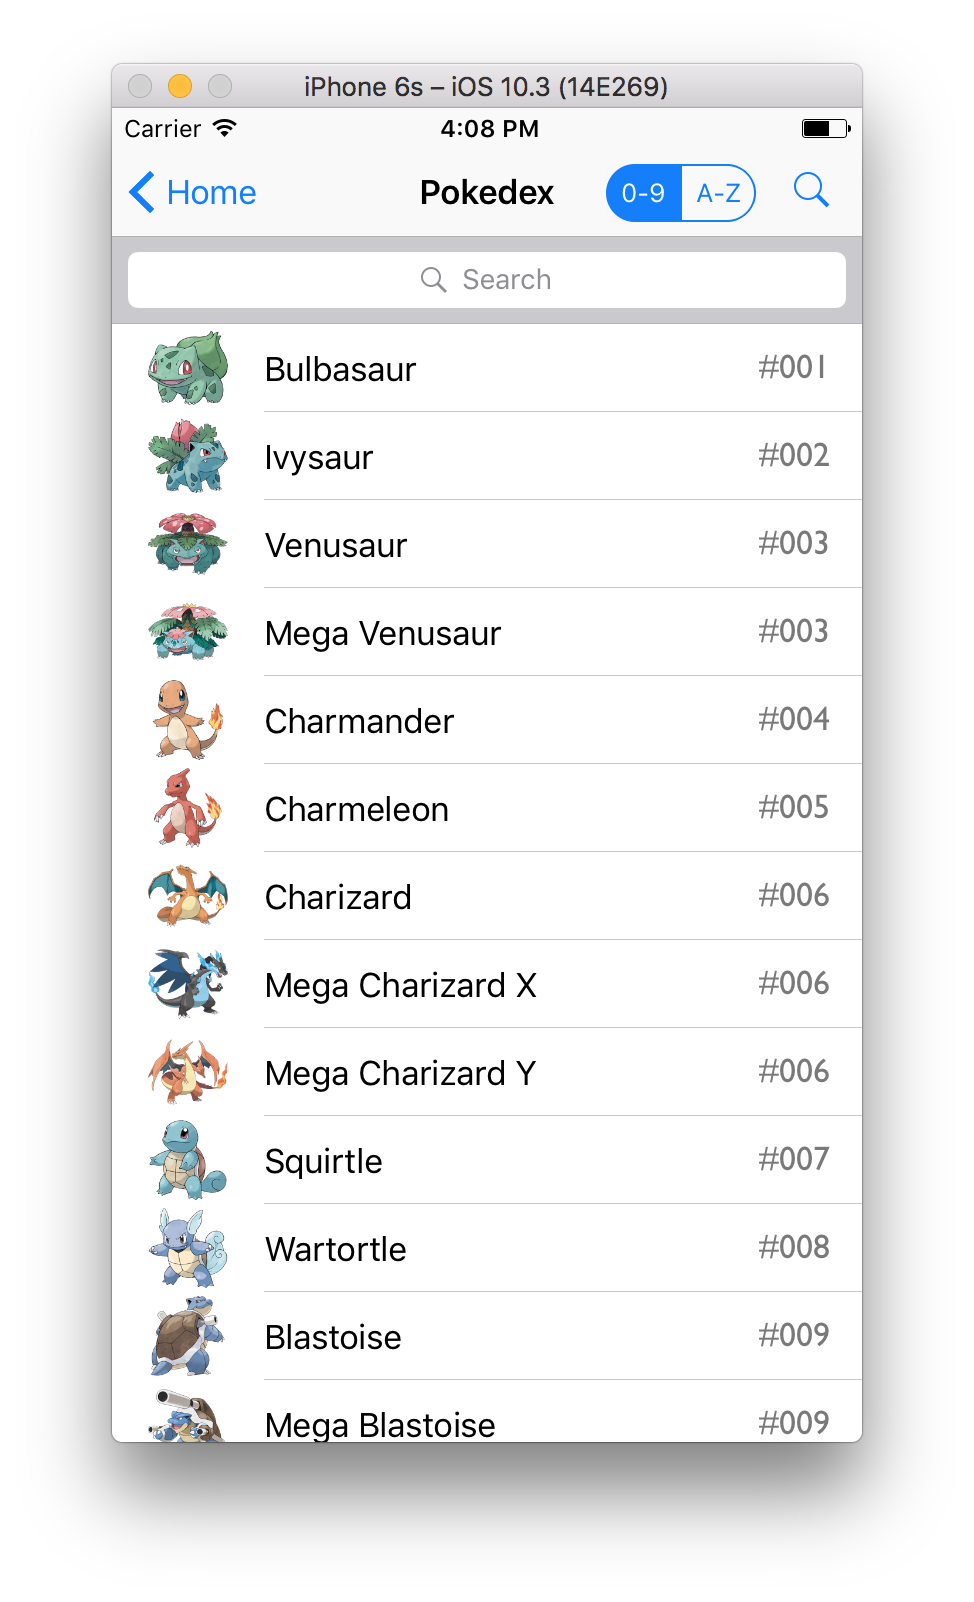
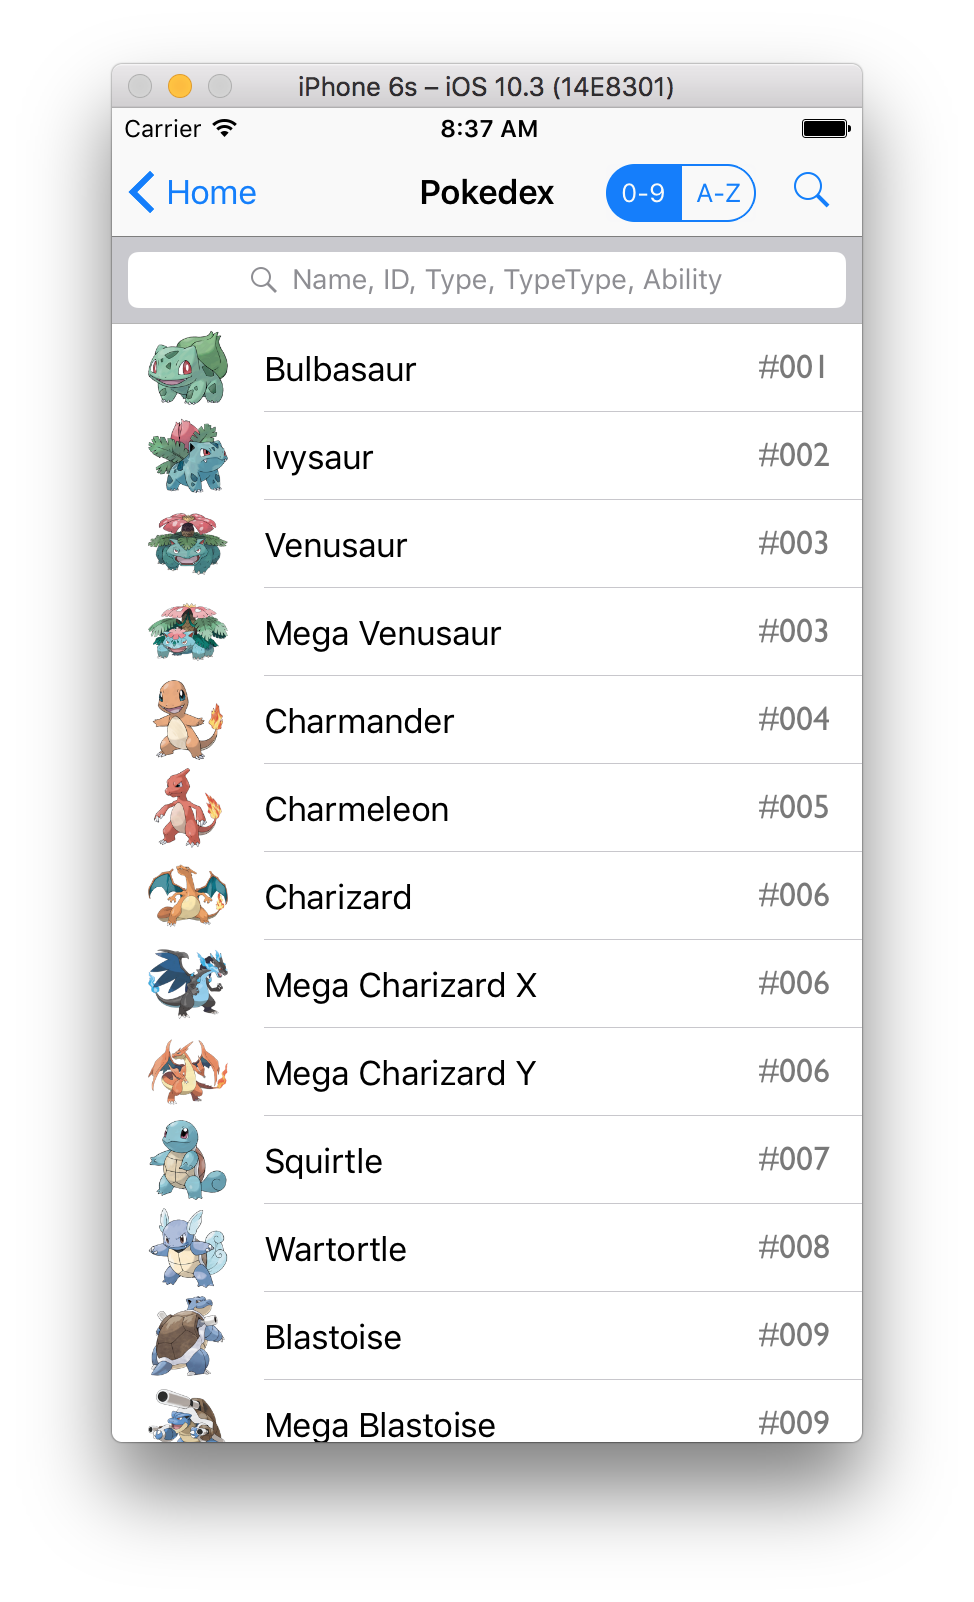
adjusted some if let to guard let; updated preview assets

diff --git a/PokedexApp/PokemonInfoVC.swift b/PokedexApp/PokemonInfoVC.swift
@@ -288,22 +288,19 @@ class PokemonInfoVC: UIViewController, TypeUILabelDelegate {
         switch senderView {
             
         case pokeEvolution01Img:
-            if pokemon.name != evolutions[base].name {
-                pokemon = evolutions[base]
-                shouldUpdateUI = true
-            }
+            guard pokemon.name != evolutions[base].name else { return }
+            pokemon = evolutions[base]
+            shouldUpdateUI = true
             
         case pokeEvolution02Img:
-            if pokemon.name != evolutions[mid].name {
-                pokemon = evolutions[mid]
-                shouldUpdateUI = true
-            }
+            guard pokemon.name != evolutions[mid].name else { return }
+            pokemon = evolutions[mid]
+            shouldUpdateUI = true
             
         case pokeEvolution03Img:
-            if pokemon.name != evolutions[last].name {
-                pokemon = evolutions[last]
-                shouldUpdateUI = true
-            }
+            guard pokemon.name != evolutions[last].name else { return }
+            pokemon = evolutions[last]
+            shouldUpdateUI = true
             
         default: ()
         }
@@ -323,33 +320,18 @@ class PokemonInfoVC: UIViewController, TypeUILabelDelegate {
             
         case measurementSectionLbl:
             if sender.state == .began {
-                measurementSectionLbl.isUserInteractionEnabled = false
+                //measurementSectionLbl.isUserInteractionEnabled = false
                 measurementSectionLbl.layer.borderColor = UIColor.AppObject.sectionText.cgColor
             
             } else if sender.state == .ended {
                 audioPlayer.play(audio: .select)
-                self.measurementSectionLbl.layer.borderColor = UIColor.clear.cgColor
+                measurementSectionLbl.layer.borderColor = UIColor.clear.cgColor
                 
-                let originalOriginY = pokeHeightLbl.frame.origin.y
-                let animateToOriginY = measurementSectionLbl.frame.origin.y
-                let animatedDuration: TimeInterval = 0.25
-                
-                UIView.animate(withDuration: animatedDuration, animations: {
-                    self.pokeHeightLbl.frame.origin.y = animateToOriginY
-                    self.pokeHeightLbl.alpha = 0
-                    self.pokeWeighLblt.frame.origin.y = animateToOriginY
-                    self.pokeWeighLblt.alpha = 0
-                }) { (Bool) in
-                    self.toggleMeasurement()
-                    UIView.animate(withDuration: animatedDuration, animations: {
-                        self.pokeHeightLbl.frame.origin.y = originalOriginY
-                        self.pokeHeightLbl.alpha = 1
-                        self.pokeWeighLblt.frame.origin.y = originalOriginY
-                        self.pokeWeighLblt.alpha = 1
-                    }) { (Bool) in
-                        self.measurementSectionLbl.isUserInteractionEnabled = true
-                    }
-                }
+                let toYValue = measurementSectionLbl.center.y
+                pokeHeightLbl.animateUp(toYValue: toYValue, duration: 0.05, reverse: true)
+                pokeWeighLblt.animateUp(toYValue: toYValue, duration: 0.05, reverse: true)
+            
+                self.toggleMeasurement()
             }
             
         case weaknessesSectionLbl:
@@ -398,17 +380,13 @@ extension PokemonInfoVC {
     func configureViewLauncher() {
         
         if pokemonWeaknessViewLauncher == nil, pokedexEntryViewLauncher == nil {
-            let y = Constant.Constrain.frameUnderNavController.origin.y
-            let width = self.view.frame.width
-            let height = self.view.frame.height - y
-            let frame = CGRect(x: 0, y: y, width: width, height: height)
+            let viewLauncherFrame = Constant.Constrain.viewlauncherFrameUnderNavBar
             
             // Configure pokemon weakness and pokedex entry viewlauncher
-            pokemonWeaknessViewLauncher = ViewLauncher(frame: frame)
-            pokemonWeaknessViewLauncher.launchView.backgroundColor = UIColor(white: 0, alpha: 0.3)
+            pokemonWeaknessViewLauncher = ViewLauncher(frame: viewLauncherFrame)
             self.view.addSubview(pokemonWeaknessViewLauncher)
             
-            pokedexEntryViewLauncher = ViewLauncher(frame: frame)
+            pokedexEntryViewLauncher = ViewLauncher(frame: viewLauncherFrame)
             self.view.addSubview(pokedexEntryViewLauncher)
         
         } else {
@@ -455,14 +433,12 @@ extension PokemonInfoVC {
         
         let longPress = UILongPressGestureRecognizer(target: self, action: action)
         longPress.minimumPressDuration = 0
-        
         view.addGestureRecognizer(longPress)
     }
     
     func addTapGesture(to view: UIView, action: Selector) {
         
         let tapGesture = UITapGestureRecognizer(target: self, action: action)
-        
         view.addGestureRecognizer(tapGesture)
     }
 }

diff --git a/PokedexApp/SettingTVC.swift b/PokedexApp/SettingTVC.swift
@@ -31,8 +31,8 @@ class SettingTVC: UITableViewController {
     @IBOutlet weak var measurementSC: UISegmentedControl!
     @IBOutlet weak var soundEffectSwitch: UISwitch!
 
-    var disclaimerView: ViewLauncher!
-    var creditView: ViewLauncher!
+    var disclaimerViewLauncher: ViewLauncher!
+    var creditViewLauncher: ViewLauncher!
     
     override func viewDidLoad() {
         super.viewDidLoad()
@@ -45,14 +45,14 @@ class SettingTVC: UITableViewController {
         super.viewWillDisappear(animated)
         
         audioPlayer.play(audio: AVAudioPlayer.ResourceAudioFile.save)
-        disclaimerView.removeFromSuperview()
-        creditView.removeFromSuperview()
+        disclaimerViewLauncher.removeFromSuperview()
+        creditViewLauncher.removeFromSuperview()
     }
     
     override func viewWillDisappear(_ animated: Bool) {
         
-        disclaimerView.dismiss(animated: false)
-        creditView.dismiss(animated: false)
+        disclaimerViewLauncher.dismiss(animated: false)
+        creditViewLauncher.dismiss(animated: false)
     }
     
     
@@ -77,11 +77,11 @@ class SettingTVC: UITableViewController {
                 
             case.disclaimer:
                 audioPlayer.play(audio: .select)
-                disclaimerView.launch()
+                disclaimerViewLauncher.launch()
                 
             case .credits:
                 audioPlayer.play(audio: .select)
-                creditView.launch()
+                creditViewLauncher.launch()
                 
             default: ()
             }
@@ -116,26 +116,22 @@ class SettingTVC: UITableViewController {
     
     func configureDisclaimerCreditView() {
         
-        // Create frame
-        let y = Constant.Constrain.frameUnderNavController.origin.y
-        let width = self.view.frame.width
-        let height = self.view.frame.height - y
-        let frame = CGRect(x: 0, y: y, width: width, height: height)
+        let viewLauncherFrame = Constant.Constrain.viewlauncherFrameUnderNavBar
         
         // Setup disclaimer viewlauncher
-        disclaimerView = ViewLauncher(frame: frame)
-        UIApplication.shared.keyWindow?.addSubview(disclaimerView)
-        disclaimerView.dismiss(animated: false)
+        disclaimerViewLauncher = ViewLauncher(frame: viewLauncherFrame)
+        UIApplication.shared.keyWindow?.addSubview(disclaimerViewLauncher)
+        disclaimerViewLauncher.dismiss(animated: false)
         
         let disclaimer = "Disclaimer:\n● This is for practice and learning purposes only.\n● All contents, arts, assets, and data belong to their respective owners."
-        disclaimerView.launchView.addTextView(text: disclaimer)
+        disclaimerViewLauncher.launchView.addTextView(text: disclaimer)
         
         // Setup credit viewlauncher
-        creditView = ViewLauncher(frame: frame)
-        UIApplication.shared.keyWindow?.addSubview(creditView)
-        creditView.dismiss(animated: false)
+        creditViewLauncher = ViewLauncher(frame: viewLauncherFrame)
+        UIApplication.shared.keyWindow?.addSubview(creditViewLauncher)
+        creditViewLauncher.dismiss(animated: false)
         
         let credit = "Data Resources:\n● Bulbapedia\n● PokemonDB\n● Official Pokemon Site\n● Phasma\n● Veekun"
-        creditView.launchView.addTextView(text: credit)
+        creditViewLauncher.launchView.addTextView(text: credit)
     }
 }

diff --git a/PokedexApp/MoveDetailTVC.swift b/PokedexApp/MoveDetailTVC.swift
@@ -22,6 +22,7 @@ class MoveDetailTVC: UITableViewController, TypeUILabelDelegate {
     var moveDetailCellHeight: CGFloat = 240
     
     var currentSCIndex: Move.LearnMethod {
+        
         return Move.LearnMethod(rawValue: segmentControl.selectedSegmentIndex)!
     }
 
@@ -143,9 +144,8 @@ class MoveDetailTVC: UITableViewController, TypeUILabelDelegate {
     
     override func tableView(_ tableView: UITableView, didSelectRowAt indexPath: IndexPath) {
         
-        if indexPath.section == pokemonCellSection {
-            performSegue(withIdentifier: "PokemonInfoTVC", sender: pokemons[indexPath.row])
-        }
+        guard indexPath.section == pokemonCellSection else { return }
+        performSegue(withIdentifier: "PokemonInfoTVC", sender: pokemons[indexPath.row])
     }
     
     
@@ -155,9 +155,8 @@ class MoveDetailTVC: UITableViewController, TypeUILabelDelegate {
     
     override func prepare(for segue: UIStoryboardSegue, sender: Any?) {
         
-        if let pokemonInfoTVC = segue.destination as? PokemonInfoVC, let pokemon = sender as? Pokemon {
-            pokemonInfoTVC.pokemon = pokemon
-        }
+        guard let pokemonInfoTVC = segue.destination as? PokemonInfoVC, let pokemon = sender as? Pokemon else { return }
+        pokemonInfoTVC.pokemon = pokemon
     }
     
     
@@ -226,7 +225,7 @@ class MoveDetailTVC: UITableViewController, TypeUILabelDelegate {
 
 
 
-// MARK: Computed Property
+// MARK: - Computed Property
 extension MoveDetailTVC {
     
     var sectionHeaderViewWidth: CGFloat {

diff --git a/PokedexApp/AbilityDetailTVC.swift b/PokedexApp/AbilityDetailTVC.swift
@@ -124,10 +124,9 @@ class AbilityDetailTVC: UITableViewController {
     
     override func tableView(_ tableView: UITableView, didSelectRowAt indexPath: IndexPath) {
         
-        if indexPath.section == pokemonCellSection {
-            audioPlayer.play(audio: .select)
-            performSegue(withIdentifier: "PokemonInfoVC", sender: pokemons[indexPath.row])
-        }
+        guard indexPath.section == pokemonCellSection else { return }
+        audioPlayer.play(audio: .select)
+        performSegue(withIdentifier: "PokemonInfoVC", sender: pokemons[indexPath.row])
     }
     
     
@@ -137,9 +136,8 @@ class AbilityDetailTVC: UITableViewController {
     
     override func prepare(for segue: UIStoryboardSegue, sender: Any?) {
         
-        if let pokemonInfoVC = segue.destination as? PokemonInfoVC, let pokemon = sender as? Pokemon {
-            pokemonInfoVC.pokemon = pokemon
-        }
+        guard let pokemonInfoVC = segue.destination as? PokemonInfoVC, let pokemon = sender as? Pokemon else { return }
+        pokemonInfoVC.pokemon = pokemon
     }
     
     

diff --git a/PokedexApp/Animatable.swift b/PokedexApp/Animatable.swift
@@ -48,3 +48,26 @@ extension Animatable {
         return animation
     }
 }
+
+
+
+// MARK: - Actions for UIView
+extension Animatable where Self: UIView {
+    
+    func animateUp(toYValue: CGFloat, duration: TimeInterval, reverse: Bool) {
+        
+        let fromVaule = NSValue(cgPoint: self.center)
+        let toValue = NSValue(cgPoint: CGPoint(x: self.center.x, y: toYValue))
+        let timingFuntion = CAMediaTimingFunction(name: kCAMediaTimingFunctionEaseIn)
+        
+        let moveAnimation = createPositionAnimation(fromValue: fromVaule, toValue: toValue, duration: duration, timingFunction: timingFuntion)
+        moveAnimation.autoreverses = reverse
+        
+        let opacityAnimation = createFadeOutAnimation(timingFunction: timingFuntion)
+        
+        let animations = CAAnimationGroup()
+        animations.animations = [moveAnimation, opacityAnimation]
+        
+        self.layer.add(animations, forKey: "position")
+    }
+}

diff --git a/PokedexApp/Constant.swift b/PokedexApp/Constant.swift
@@ -89,5 +89,20 @@ struct Constant {
             
             return rect
         }()
+        
+        static let viewlauncherFrameUnderNavBar: CGRect = {
+            
+            guard let keyWindowFrame = UIApplication.shared.keyWindow?.frame else {
+                fatalError("Cannot get keyWindow from UIApplication shared instance")
+            }
+            
+            let statusBarFrame = UIApplication.shared.statusBarFrame
+            let x: CGFloat = 0
+            let y = statusBarFrame.origin.y + statusBarFrame.height + UINavigationController().navigationBar.frame.height
+            let width = keyWindowFrame.width
+            let height = keyWindowFrame.height
+            
+            return CGRect(x: x, y: y, width: width, height: height)
+        }()
     }
 }

diff --git a/PokedexApp/GenericTVC.swift b/PokedexApp/GenericTVC.swift
@@ -351,12 +351,7 @@ class GenericTVC: UITableViewController, UISearchResultsUpdating, ViewLauncherDe
     
     func configureViewLauncher() {
         
-        let y = Constant.Constrain.frameUnderNavController.origin.y
-        let width = self.view.frame.width
-        let height = self.view.frame.height - y
-        let frame = CGRect(x: 0, y: y, width: width, height: height)
-        
-        viewLauncher = ViewLauncher(frame: frame)
+        viewLauncher = ViewLauncher(frame: Constant.Constrain.viewlauncherFrameUnderNavBar)
         UIApplication.shared.keyWindow?.addSubview(viewLauncher)
         viewLauncher.dismiss(animated: false)
         viewLauncher.delegate = self

diff --git a/PokedexApp/TypeDetailTVC.swift b/PokedexApp/TypeDetailTVC.swift
@@ -175,11 +175,10 @@ class TypeDetailTVC: UITableViewController, TypeUILabelDelegate {
     
     func typeUILabel(didTap tapGesture: UITapGestureRecognizer) {
         
-        if let typeLbl = tapGesture.view as? TypeUILabel, type != typeLbl.text {
-            audioPlayer.play(audio: .select)
-            self.type = typeLbl.text
-            self.updateUI()
-        }
+        guard let typeLbl = tapGesture.view as? TypeUILabel, type != typeLbl.text else { return }
+        audioPlayer.play(audio: .select)
+        self.type = typeLbl.text
+        self.updateUI()
     }
     
     

diff --git a/PokedexApp/ViewLauncher.swift b/PokedexApp/ViewLauncher.swift
@@ -13,7 +13,7 @@ protocol ViewLauncherDelegate: class {
     func viewLauncherDidDismiss(viewlauncher: ViewLauncher)
 }
 
-class ViewLauncher: UIView, Animatable, CAAnimationDelegate {
+class ViewLauncher: UIView, CAAnimationDelegate {
     
     weak var delegate: ViewLauncherDelegate?
     

diff --git a/PokedexApp/UIViewExtension.swift b/PokedexApp/UIViewExtension.swift
@@ -8,6 +8,10 @@
 
 import UIKit
 
+extension UIView: Animatable {}
+
+
+
 extension UIView {
     
     func removeAllSubviews() {
